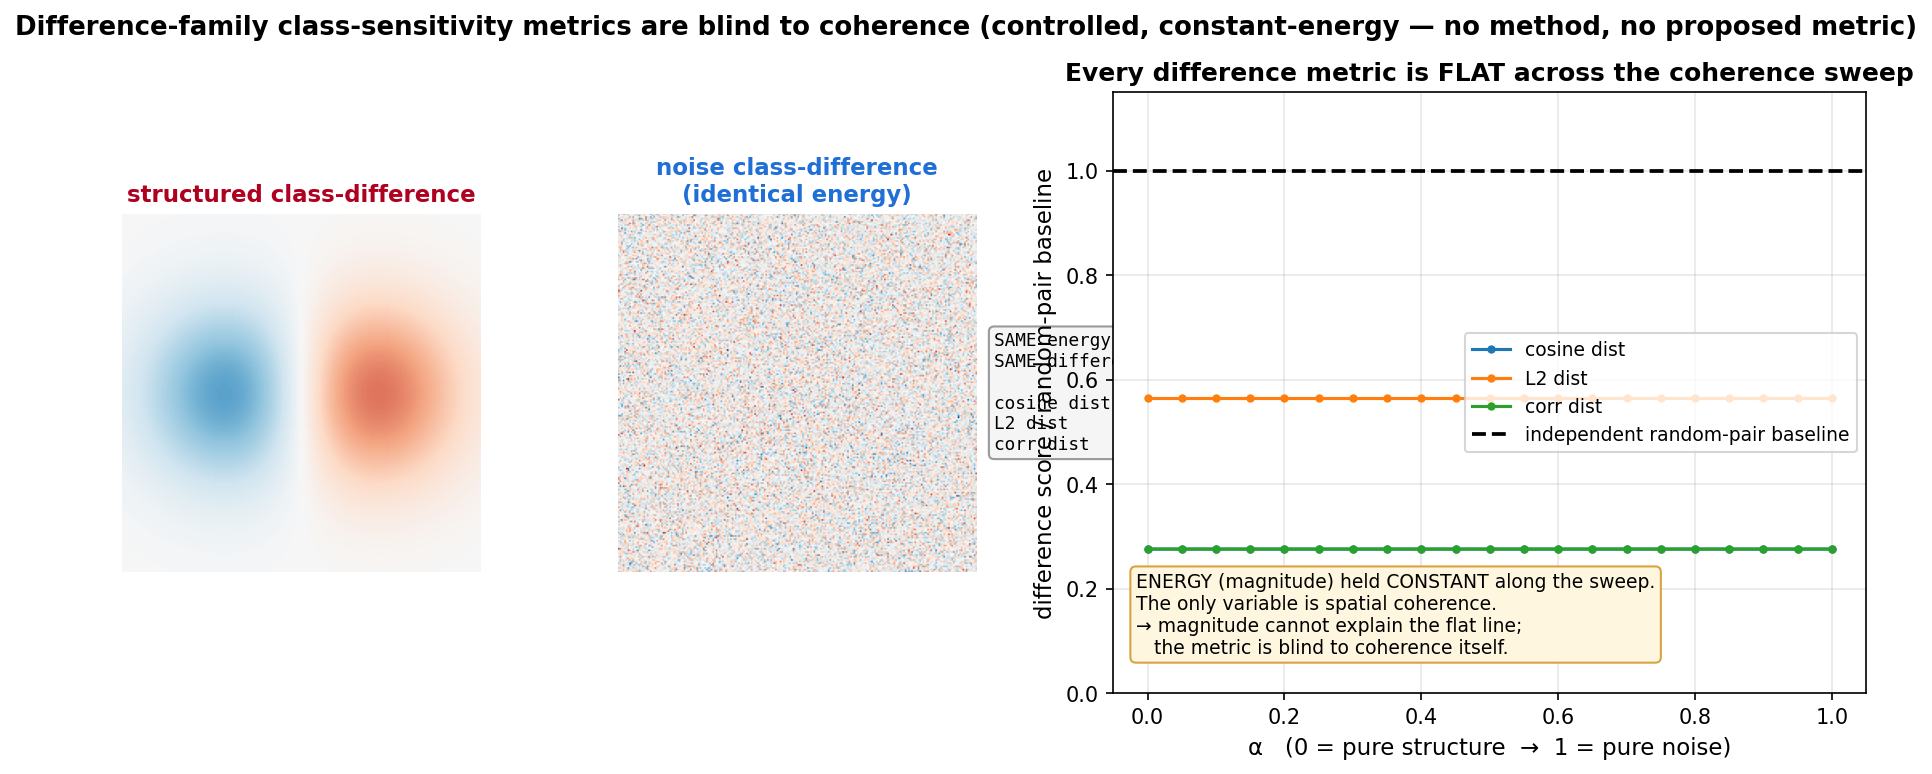
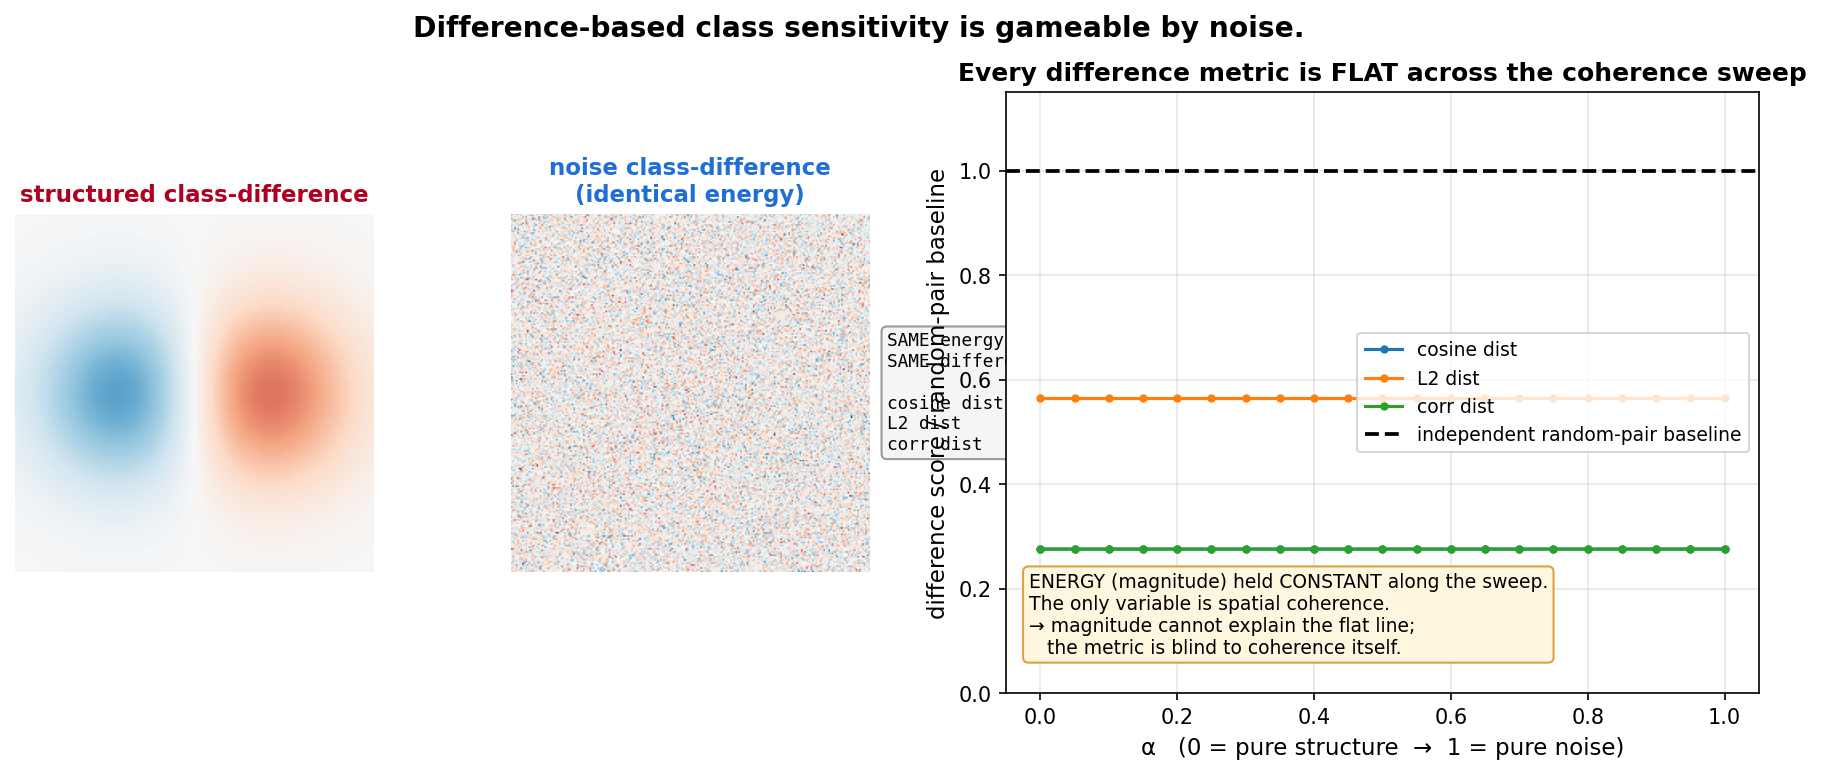
Retitle gameability figure: "Difference-based class sensitivity is gameable by noise."

diff --git a/infocube-main/diff_metric_blindness.py b/infocube-main/diff_metric_blindness.py
@@ -93,8 +93,7 @@ axs.text(0.03, 0.06,
          '→ magnitude cannot explain the flat line;\n   the metric is blind to coherence itself.',
          transform=axs.transAxes, va='bottom', ha='left', fontsize=9,
          bbox=dict(boxstyle='round', fc='#fff6e0', ec='#d9a441'))
-plt.suptitle('Difference-family class-sensitivity metrics are blind to coherence '
-             '(controlled, constant-energy — no method, no proposed metric)', fontsize=12.5, fontweight='bold')
+plt.suptitle('Difference-based class sensitivity is gameable by noise.', fontsize=13.5, fontweight='bold')
 plt.tight_layout(rect=[0,0,1,0.95]); out='cs_viz_outputs/diff_metric_blindness.png'
 plt.savefig(out, dpi=150, bbox_inches='tight'); plt.close()
 flat = max(abs(np.array(v)[-1]-np.array(v)[0])/(rp[k]+EPS) for k,v in curves.items())
